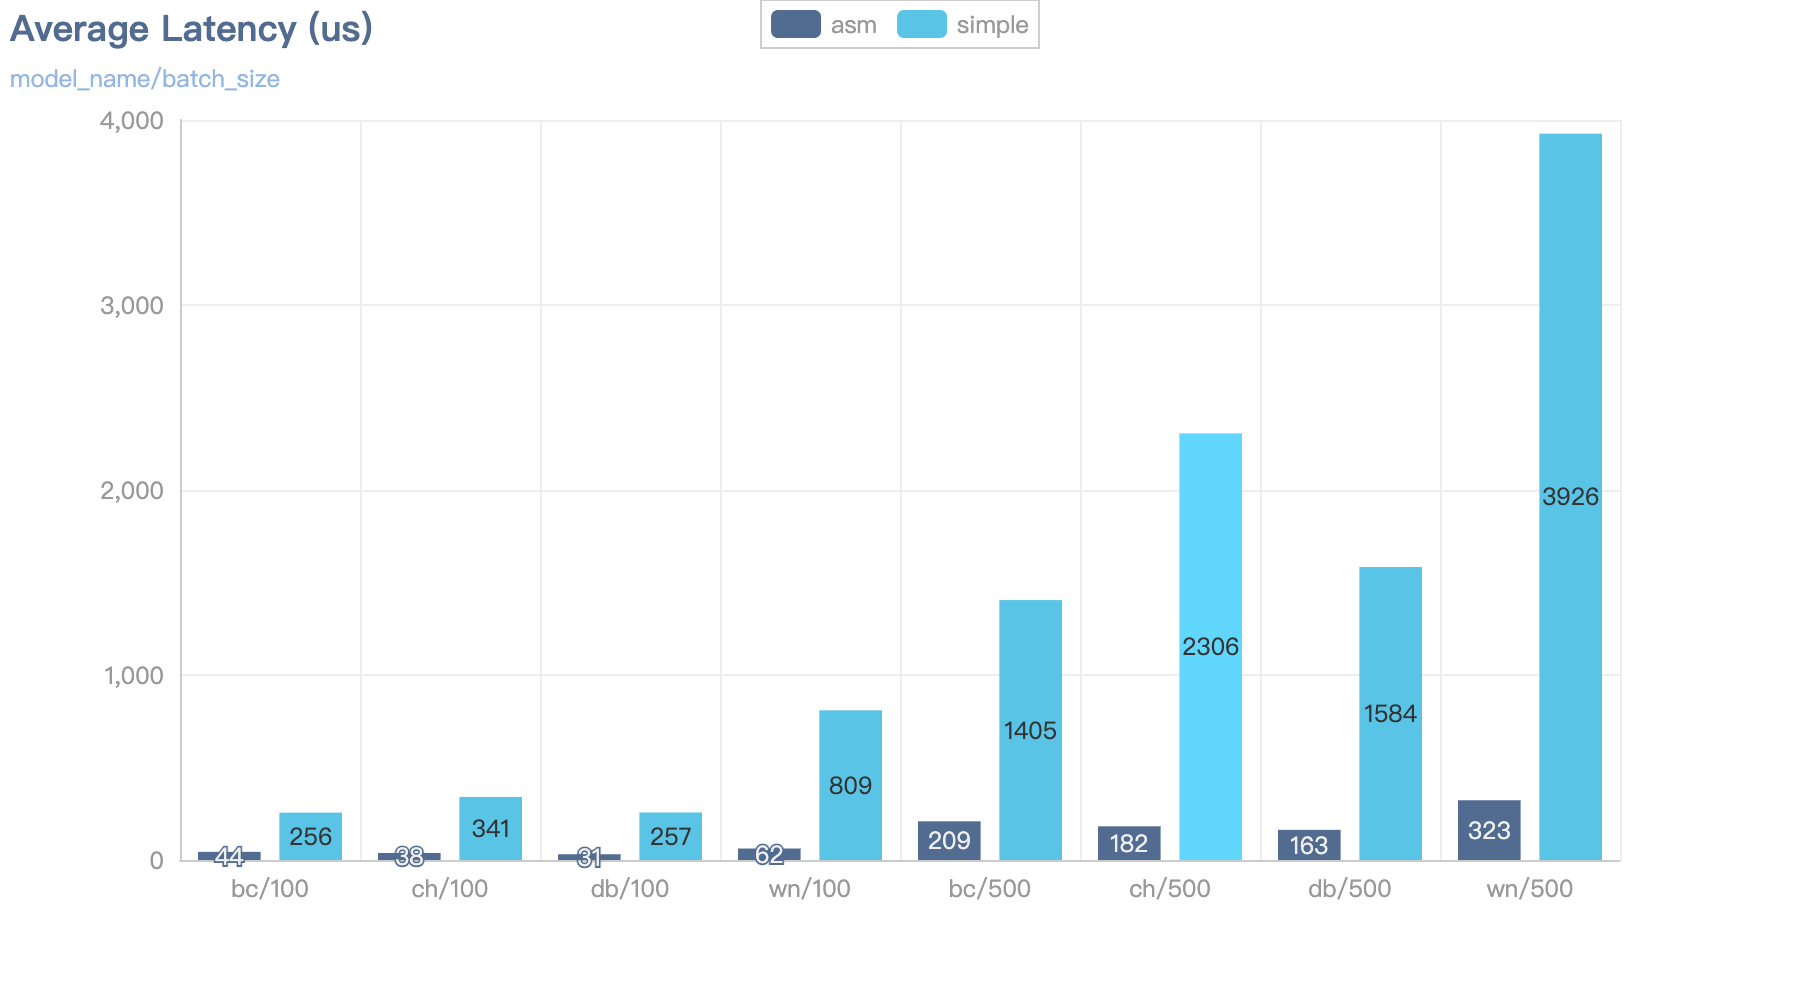
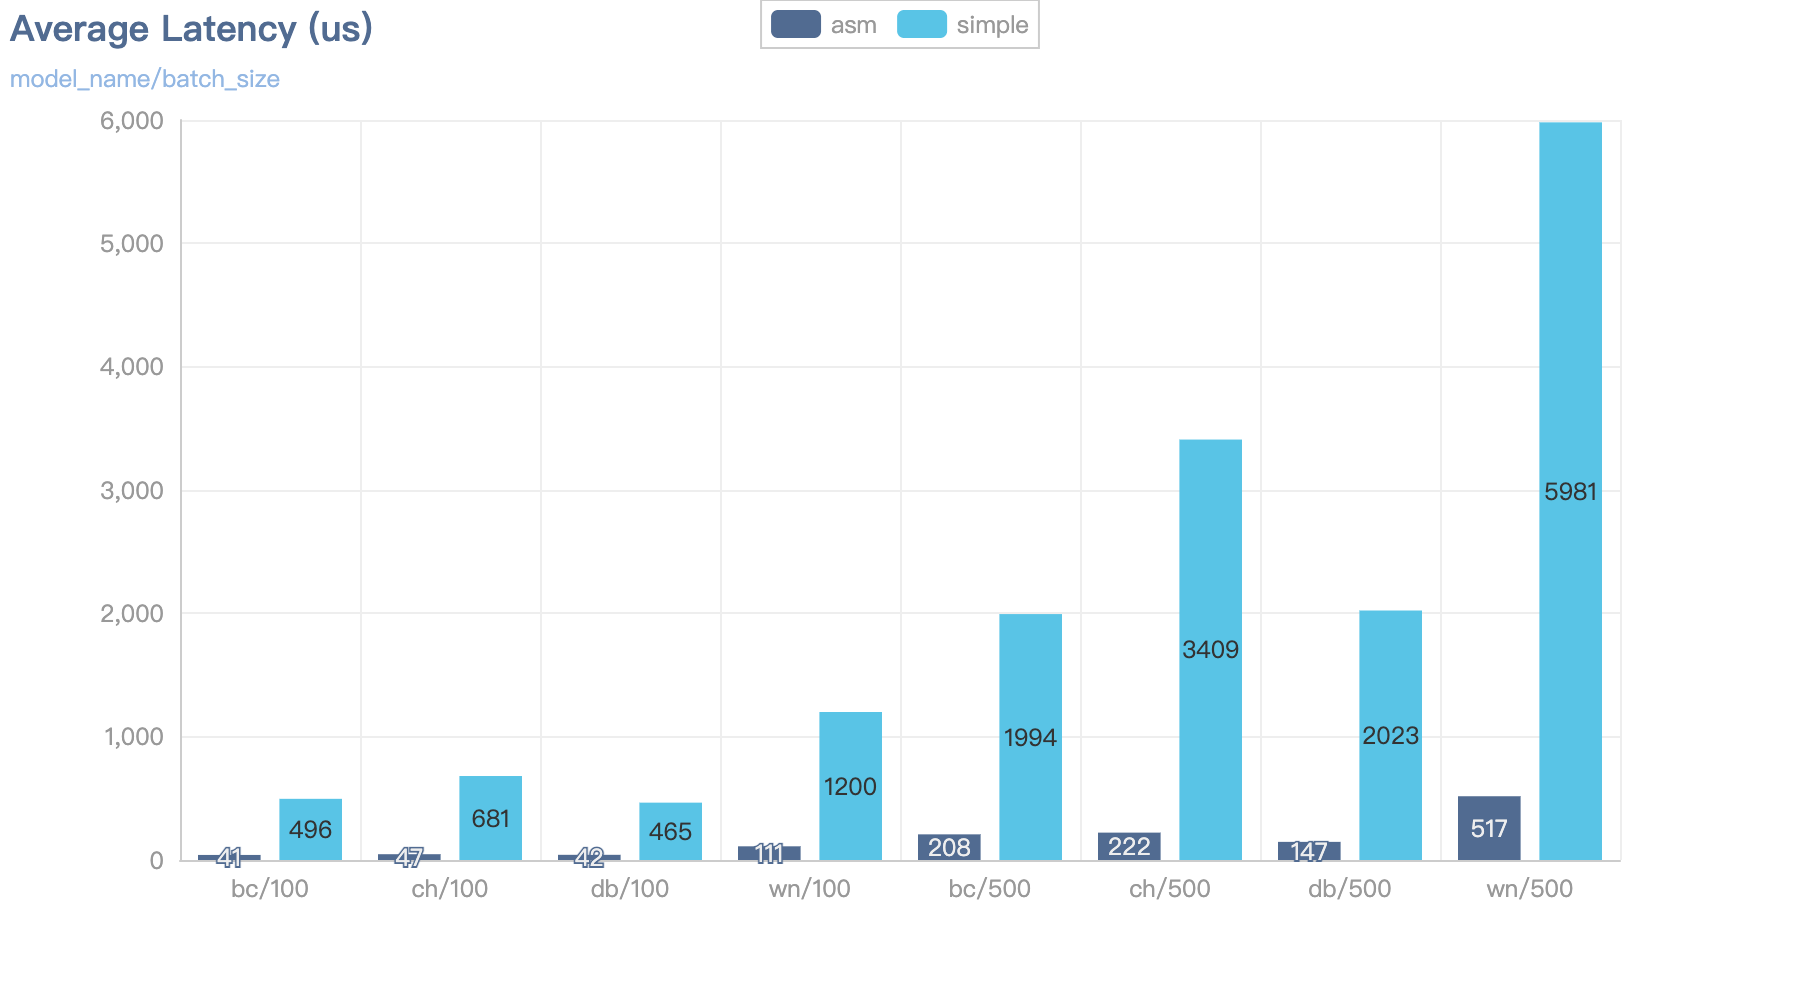
[doc] update benchmark result

diff --git a/treetops-core/src/main/java/io/github/treetops/core/predictor/SimplePredictor.java b/treetops-core/src/main/java/io/github/treetops/core/predictor/SimplePredictor.java
@@ -91,7 +91,7 @@ public class SimplePredictor extends MetaDataHolder implements Predictor {
      * @return decision value of this node
      */
     private double categoricalDecision(TreeNode treeNode, double[] features) {
-        double feature = features[treeNode.getNodeIndex()];
+        double feature = features[treeNode.getSplitFeatures().get(treeNode.getNodeIndex())];
         if (Double.isNaN(feature)) {
             return decision(treeNode.getRightNode(), features);
         } else {

diff --git a/treetops-benchmark/src/main/java/io/github/treetops/benchmark/wine/GeneratedPredictorBenchmark.java b/treetops-benchmark/src/main/java/io/github/treetops/benchmark/wine/GeneratedPredictorBenchmark.java
@@ -21,7 +21,7 @@ public class GeneratedPredictorBenchmark extends AverageTimeBenchmarkTemplate {
 
     @Override
     protected double[] getFeature() {
-        features = new double[30];
+        features = new double[13];
         Random r = new Random();
         for (int i = 0; i < features.length; i++) {
             features[i] = -2.0 + 4 * r.nextDouble();

diff --git a/docs/benchmark/result.md b/docs/benchmark/result.md
@@ -1,0 +1,57 @@
+# Benchmark Result
+
+## Environment
+
+- CPU: Intel(R) Xeon(R) Platinum 8372HC CPU @ 3.40GHz
+- Memory: 8G
+- Jdk: 1.8.0_362
+- Tool: JMH
+
+Test config : see class `io/github/treetops/benchmark/common/AverageTimeBenchmarkTemplate.java`
+
+## BatchSize: 100
+
+```
+Benchmark                                                    Mode  Cnt        Score        Error  Units
+i.g.t.b.breastcancer.GeneratedPredictorBenchmark.group       avgt   10    41839.248 ±   1021.564  ns/op
+i.g.t.b.breastcancer.SimplePredictorBenchmark.group          avgt   10   496211.590 ± 144021.236  ns/op
+i.g.t.b.californiahousing.GeneratedPredictorBenchmark.group  avgt   10    47484.875 ±   6165.425  ns/op
+i.g.t.b.californiahousing.SimplePredictorBenchmark.group     avgt   10   681600.553 ± 257224.470  ns/op
+i.g.t.b.diabetes.GeneratedPredictorBenchmark.group           avgt   10    42794.777 ±   4549.512  ns/op
+i.g.t.b.diabetes.SimplePredictorBenchmark.group              avgt   10   465262.379 ± 193065.665  ns/op
+i.g.t.b.wine.GeneratedPredictorBenchmark.group               avgt   10   111460.641 ±  12352.069  ns/op
+i.g.t.b.wine.SimplePredictorBenchmark.group                  avgt   10  1200014.729 ± 283487.105  ns/op
+```
+
+## BatchSize: 500
+
+```
+Benchmark                                                    Mode  Cnt        Score         Error  Units
+i.g.t.b.breastcancer.GeneratedPredictorBenchmark.group       avgt   10   208786.500 ±    7699.946  ns/op
+i.g.t.b.breastcancer.SimplePredictorBenchmark.group          avgt   10  1994982.258 ±  403898.299  ns/op
+i.g.t.b.californiahousing.GeneratedPredictorBenchmark.group  avgt   10   222625.586 ±    1881.976  ns/op
+i.g.t.b.californiahousing.SimplePredictorBenchmark.group     avgt   10  3409444.662 ± 1336838.246  ns/op
+i.g.t.b.diabetes.GeneratedPredictorBenchmark.group           avgt   10   147066.124 ±   15336.055  ns/op
+i.g.t.b.diabetes.SimplePredictorBenchmark.group              avgt   10  2023224.922 ±  498936.117  ns/op
+i.g.t.b.wine.GeneratedPredictorBenchmark.group               avgt   10   517825.494 ±   85232.860  ns/op
+i.g.t.b.wine.SimplePredictorBenchmark.group                  avgt   10  5981068.592 ± 1483154.756  ns/op
+```
+
+
+## Graph
+
+```python
+from pyecharts.charts import Bar
+from pyecharts import options as opts
+from pyecharts.globals import ThemeType
+from pyecharts.render import make_snapshot
+
+bar = (
+    Bar(init_opts=opts.InitOpts(theme=ThemeType.WESTEROS))
+    .add_xaxis(["bc/100", "ch/100", "db/100", "wn/100","bc/500", "ch/500", "db/500", "wn/500"])
+    .add_yaxis("asm",    [41,  47,  42,  111,  208,  222,  147,  517])
+    .add_yaxis("simple", [496, 681, 465, 1200, 1994, 3409, 2023, 5981])
+    .set_global_opts(title_opts=opts.TitleOpts(title="Average Latency (us)", subtitle="model_name/batch_size"))
+)
+bar.render()
+```
